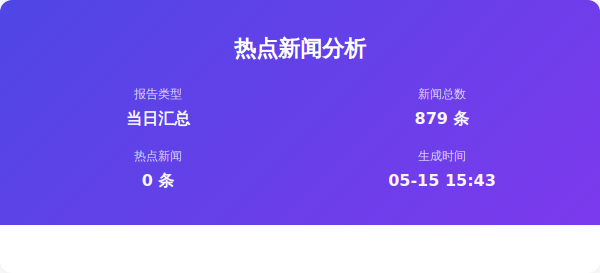
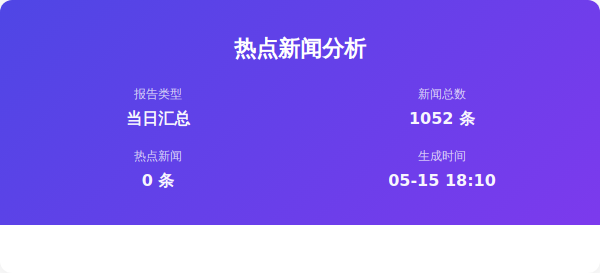
Auto update by GitHub Actions at Fri May 15 18:10:42 CST 2026

Changed region(s): [[0.66, 0.4103, 0.81, 0.4689], [0.75, 0.6447, 0.84, 0.7033]]

diff --git a/output/2026年05月15日/html/当日汇总.html b/output/2026年05月15日/html/当日汇总.html
@@ -357,7 +357,7 @@
                     </div>
                     <div class="info-item">
                         <span class="info-label">新闻总数</span>
-                        <span class="info-value">879 条</span>
+                        <span class="info-value">1052 条</span>
                     </div>
                     <div class="info-item">
                         <span class="info-label">热点新闻</span>
@@ -365,7 +365,7 @@
                     </div>
                     <div class="info-item">
                         <span class="info-label">生成时间</span>
-                        <span class="info-value">05-15 15:43</span>
+                        <span class="info-value">05-15 18:10</span>
                     </div>
                 </div>
             </div>